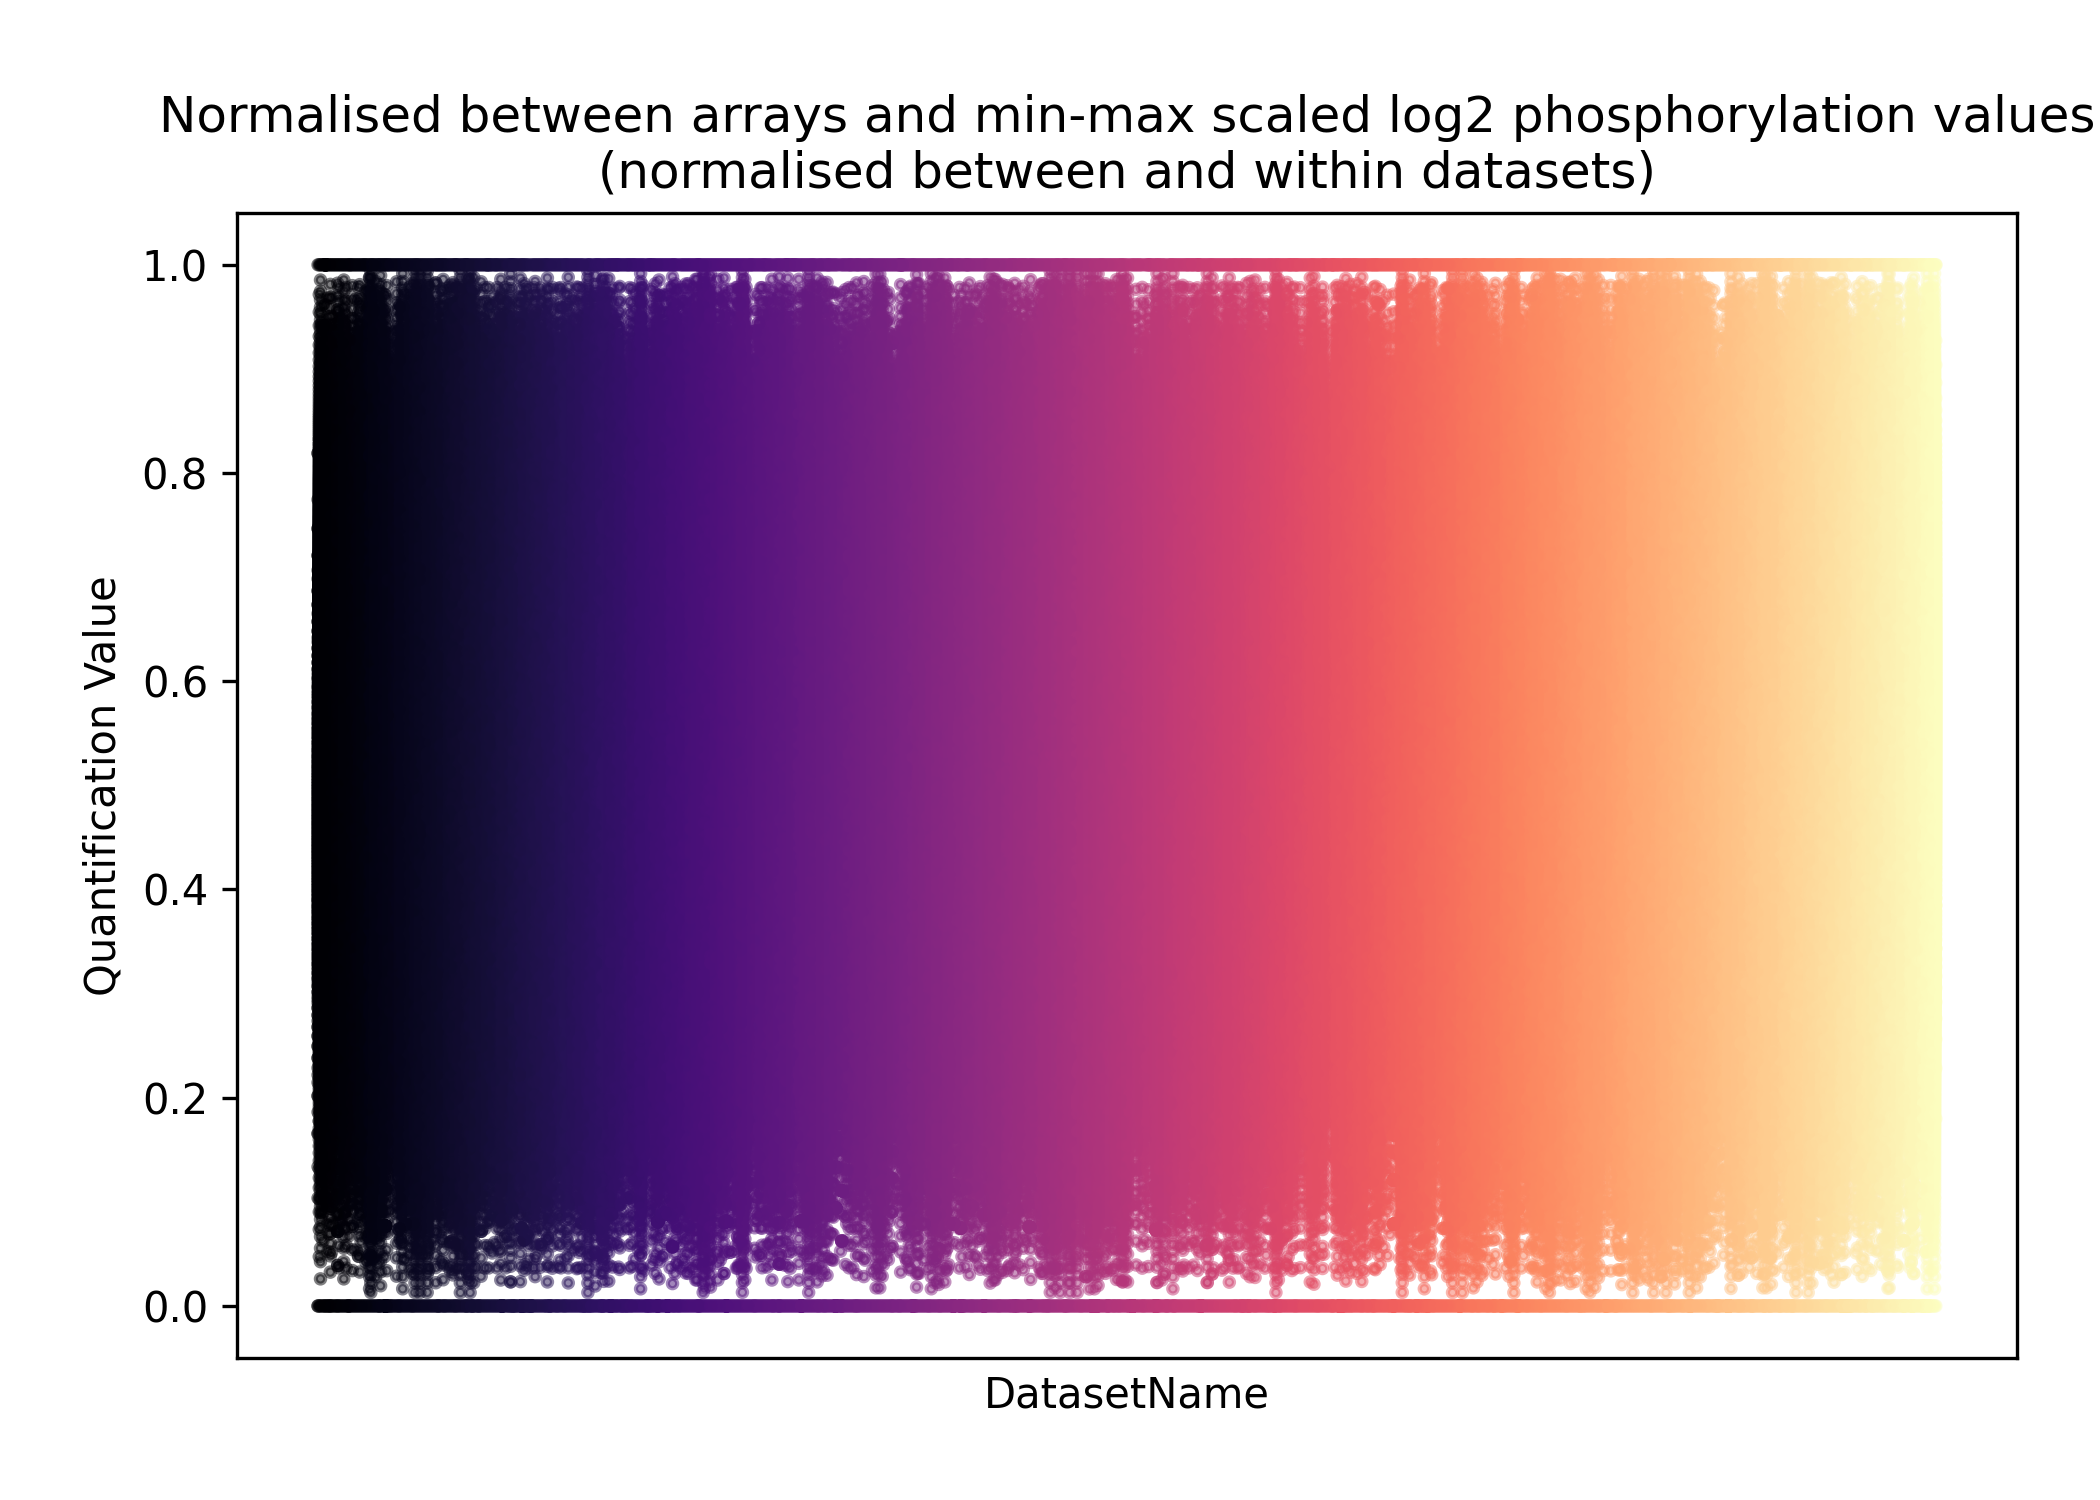
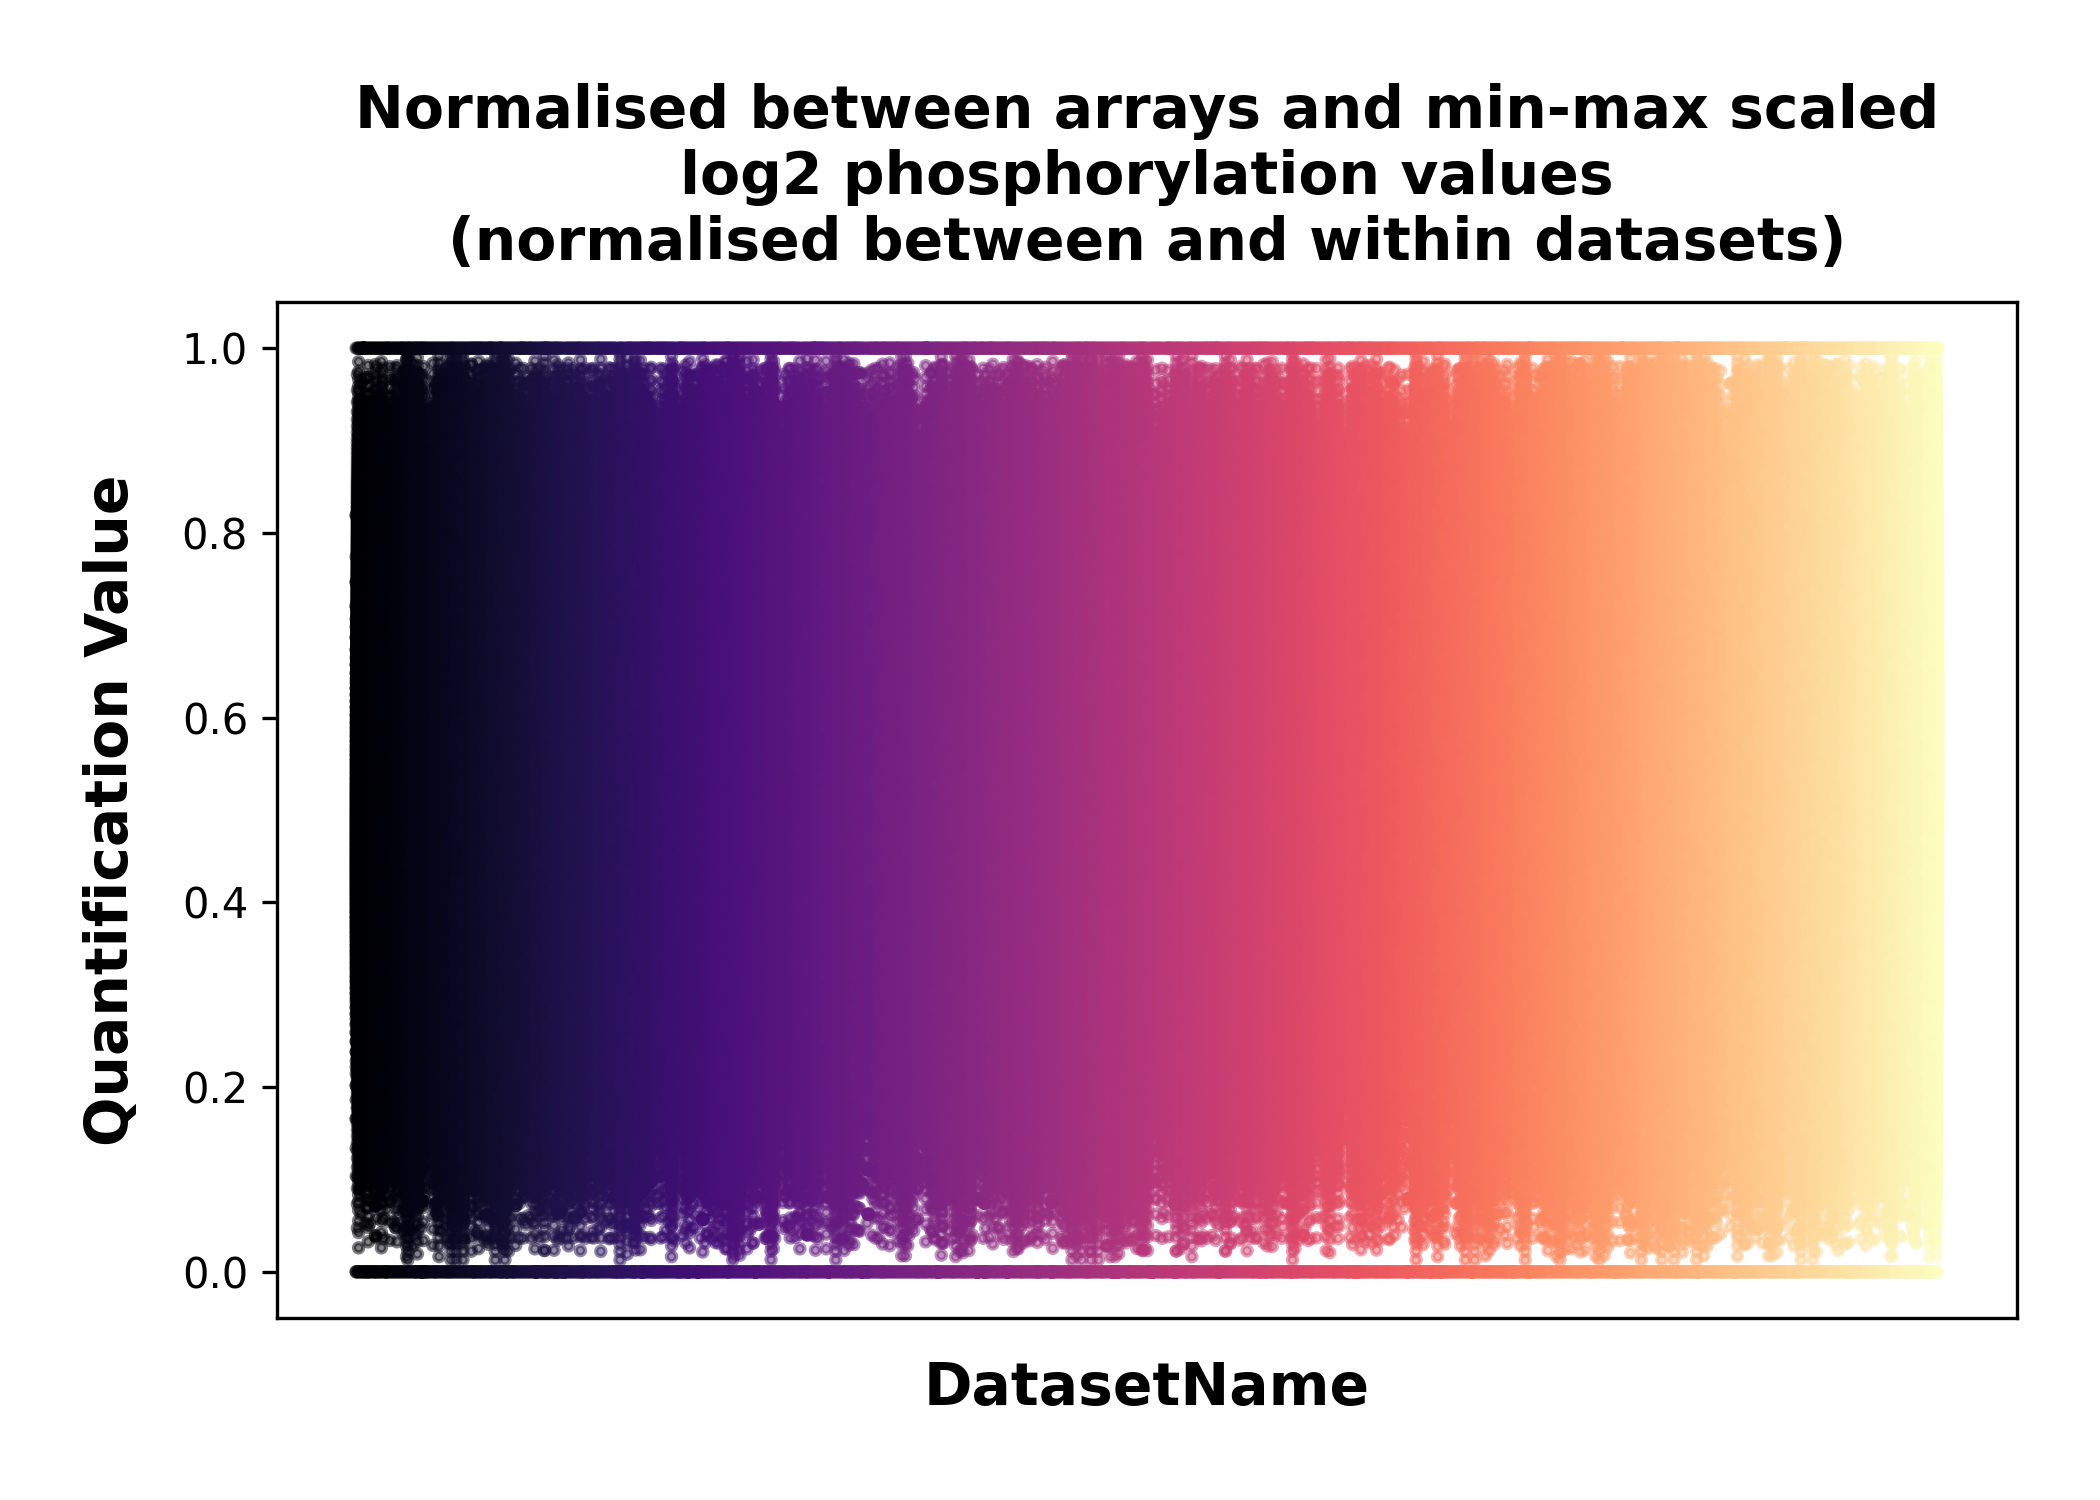
updated plots

Changed region(s): [[0.031, 0.0613, 1.0, 0.9507], [0.0619, 0.1533, 0.1238, 0.184]]

diff --git a/plots/barplots.py b/plots/barplots.py
@@ -19,12 +19,25 @@ unique_proteins = set(proteins)
 num_proteins = len(unique_proteins)
 print(f"Number of unique proteins: {num_proteins}")
 
-# Plot bar chart with new axis labels
-plt.figure(figsize=(6, 5))
-plt.grid(axis='y', linestyle='--', alpha=0.7, zorder=0)
-bars = plt.bar(['Phosphosites', 'Proteins'], [num_phosphosites, num_proteins], color=['slateblue', 'slateblue'], width=0.3, zorder=3)
+# Load clustered matrix
+df_clustered = pd.read_csv("/data/home/bt24990/ExplainableAI/04_clustering/combined_clustered_matrix.csv", index_col=0)
+num_clustered_features = df_clustered.shape[1]
 
-# Add value labels on top of bars
+
+print(f"Original phosphosites: {num_phosphosites}")
+print(f"Unique proteins: {num_proteins}")
+print(f"Clustered features: {num_clustered_features}")
+
+
+# Plot bar chart with new axis labels
+plt.figure(figsize=(7, 5))
+plt.grid(axis='y', linestyle='--', alpha=0.7, zorder=0)
+bars = plt.bar(['Phosphosites', 'Proteins', 'Clusters'],
+               [num_phosphosites, num_proteins, num_clustered_features],
+               color=['slateblue', 'slateblue', 'slateblue'],
+               width=0.4, zorder=3)
+
+# Add value labels
 for bar in bars:
     height = bar.get_height()
     plt.text(bar.get_x() + bar.get_width() / 2,
@@ -32,7 +45,6 @@ for bar in bars:
              f'{int(height)}',
              ha='center', va='bottom',
              fontsize=12, fontweight='bold')
-
 
 # Axis labels
 plt.xlabel('Threshold', fontsize=14, fontweight='bold', labelpad=10)

diff --git a/plots/allplots.py b/plots/allplots.py
@@ -3,14 +3,14 @@ import matplotlib.image as mpimg
 
 # Define the image paths and titles in the desired order
 plot_paths = [
-    "/data/home/bt24990/maryam-ko-QMUL-MSc-Project/04_plots/raw_scatter.png",
-    "/data/home/bt24990/maryam-ko-QMUL-MSc-Project/04_plots/normalise_scatter.png",
-    "/data/home/bt24990/maryam-ko-QMUL-MSc-Project/04_plots/arrays_scatter.png",
-    "/data/home/bt24990/maryam-ko-QMUL-MSc-Project/04_plots/Zscore_scatter.png",
-    "/data/home/bt24990/maryam-ko-QMUL-MSc-Project/04_plots/raw_mean_plot.png",
-    "/data/home/bt24990/maryam-ko-QMUL-MSc-Project/04_plots/normalised_mean_plot.png",
-    "/data/home/bt24990/maryam-ko-QMUL-MSc-Project/04_plots/arrays_mean_plot.png",
-    "/data/home/bt24990/maryam-ko-QMUL-MSc-Project/04_plots/Zscore_mean_plot.png"
+    "/data/home/bt24990/ExplainableAI/plots/raw_scatter.png",
+    "/data/home/bt24990/ExplainableAI/plots/normalise_scatter.png",
+    "/data/home/bt24990/ExplainableAI/plots/arrays_scatter.png",
+    "/data/home/bt24990/ExplainableAI/plots/Zscore_scatter.png",
+    "/data/home/bt24990/ExplainableAI/plots/raw_mean_plot.png",
+    "/data/home/bt24990/ExplainableAI/plots/normalised_mean_plot.png",
+    "/data/home/bt24990/ExplainableAI/plots/arrays_mean_plot.png",
+    "/data/home/bt24990/ExplainableAI/plots/Zscore_mean_plot.png"
 ]
 
 # Create a 2x3 panel layout

diff --git a/plots/normalise-array-plot.py b/plots/normalise-array-plot.py
@@ -29,8 +29,9 @@ plt.scatter(
 plt.xticks([], [])  # Hides x-axis ticks and labels
 plt.xlabel("DatasetName", fontsize=14, fontweight='bold', labelpad=10)
 plt.ylabel("Quantification Value", fontsize=14, fontweight='bold', labelpad=10)
-plt.title("Normalised between arrays and min-max scaled log2 phosphorylation values\n"
-          "(normalised between and within datasets)", fontsize=14, fontweight='bold', labelpad=10)
+plt.title("Normalised between arrays and min-max scaled\n" 
+          "log2 phosphorylation values\n"
+          "(normalised between and within datasets)", fontsize=14, fontweight='bold', pad=10)
 plt.tight_layout(pad=2.0)  # Increase padding between title and plot
 plt.savefig("arrays_scatter.png", dpi=300)
 plt.close()

diff --git a/plots/zscore-plot.py b/plots/zscore-plot.py
@@ -29,8 +29,8 @@ plt.scatter(
 plt.xticks([], [])  # Hides x-axis ticks and labels
 plt.xlabel("DatasetName", fontsize=14, fontweight='bold', labelpad=10)
 plt.ylabel("Quantification Value", fontsize=14, fontweight='bold', labelpad=10)
-plt.title("Normalised between arrays and min-max scaled log2 phosphorylation values\n"
-          " with Z-Score", fontsize=14, fontweight='bold', labelpad=10)
+plt.title("Normalised between arrays and\n" 
+          "min-max scaled  log2 phosphorylation values with Z-Score", fontsize=14, fontweight='bold', pad=10)
 plt.tight_layout(pad=2.0)  # Increase padding between title and plot
 plt.savefig("Zscore_scatter.png", dpi=300)
 plt.close()

diff --git a/plots/normalisedplot.py b/plots/normalisedplot.py
@@ -43,7 +43,7 @@ plt.xticks([], [])  # Hides x-axis ticks and labels
 plt.xlabel("DatasetName", fontsize=14, fontweight='bold', labelpad=10)
 plt.ylabel("Quantification Value", fontsize=14, fontweight='bold', labelpad=10)
 plt.title("Min-max scaled log2 phosphorylation values\n"
-          "(normalised per dataset)", fontsize=14, fontweight='bold', labelpad=10)
+          "(normalised per dataset)", fontsize=14, fontweight='bold', pad=10)
 plt.tight_layout(pad=2.0)  # Increase padding between title and plot
 plt.savefig("normalise_scatter.png", dpi=300)
 plt.close()

diff --git a/plots/raw_plot.py b/plots/raw_plot.py
@@ -30,7 +30,7 @@ plt.xticks([], [])  # Hides x-axis ticks and labels
 plt.xlabel("DatasetName", fontsize=14, fontweight='bold', labelpad=10)
 plt.ylabel("Quantification Value", fontsize=14, fontweight='bold', labelpad=10)
 plt.title("Raw log2 phosphorylation values\n"
-          "(before normalisation)", fontsize=14, fontweight='bold', labelpad=10)
+          "(before normalisation)", fontsize=14, fontweight='bold', pad=10)
 plt.tight_layout(pad=2.0)  # Increase padding between title and plot
 plt.savefig("raw_scatter.png", dpi=300)
 plt.close()
